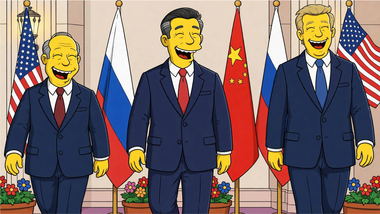
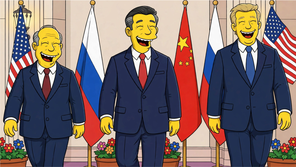
Summit equalised to 296x167; freed width shared by ICJ and market leads (328 each)

diff --git a/main.py b/main.py
@@ -7,8 +7,8 @@ summing up the world news of Thursday 19 November 2026: 36 stories
 a world map with numbered pins, a calendar page in the masthead, a
 four-number stat strip, a DATE CHECK box and a source footer. No network, no Pillow, deterministic output.
 
-The three lead illustrations (summit.png, 380x214; icj.png, 296x167;
-market.png, 276x155) are reference images Bos chose, held in the repo
+The three lead illustrations (summit.png, 296x167; icj.png, 328x185;
+market.png, 328x185) are reference images Bos chose, held in the repo
 and decoded at run time; every other picture and the map are drawn in
 code. All three lead illustrations are 16:9.
 
@@ -649,7 +649,7 @@ _ICJ_PHOTO = [None]
 
 def art_icj(cv, x, y, w, h):
     """The World Court lead portrait Bos chose: a Rohingya crowd, held
-    in the repo as icj.png (296x167) and decoded at run time."""
+    in the repo as icj.png (328x185) and decoded at run time."""
     if _ICJ_PHOTO[0] is None:
         here = os.path.dirname(os.path.abspath(__file__))
         _ICJ_PHOTO[0] = read_png_rgb(os.path.join(here, "icj.png"))
@@ -745,7 +745,7 @@ _SUMMIT_PHOTO = [None]
 def art_summit(cv, x, y, w, h):
     """The summit portrait Bos chose: the Simpsons-style cartoon of
     Putin, Xi and Trump laughing before their flags, held in the repo
-    as summit.png (380x214) and decoded at run time; the name band
+    as summit.png (296x167) and decoded at run time; the name band
     below is drawn in code, in the portrait's own left-to-right order
     (Putin, Xi, Trump)."""
     if _SUMMIT_PHOTO[0] is None:
@@ -770,7 +770,7 @@ _MARKET_PHOTO = [None]
 def art_market(cv, x, y, w, h):
     """The Wall Street lead chart Bos chose: red candles stepping down
     with the navy trend line falling away, held in the repo as
-    market.png (276x155) and decoded at run time."""
+    market.png (328x185) and decoded at run time."""
     if _MARKET_PHOTO[0] is None:
         here = os.path.dirname(os.path.abspath(__file__))
         _MARKET_PHOTO[0] = read_png_rgb(os.path.join(here, "market.png"))
@@ -1001,9 +1001,9 @@ STATS = [
 LEADS = [
     {"art": art_summit, "tag": "SHENZHEN · DIPLOMACY",
      "title": "TRUMP, XI AND PUTIN END HISTORIC SUMMIT",
-     "deck": "First-ever three-way talks run 90 minutes in Shenzhen; the "
+     "deck": "First three-way talks run 90 minutes in Shenzhen; the "
              "leaders denounce nuclear war and APEC adopts the Shenzhen "
-             "Outlook on trade, data and AI.",
+             "Outlook.",
      "src": "WSJ · USA Today · APEC — 19 Nov 2026"},
     {"art": art_icj, "tag": "THE HAGUE · INTERNATIONAL LAW",
      "title": "WORLD COURT: MYANMAR GUILTY OF GENOCIDE",
@@ -1131,9 +1131,10 @@ def render():
         cv.draw_text(bx + 12, 146, big, bold, 22, col)
         cv.draw_text(bx + 12, 164, label, reg, 10, INK)
 
-    # ---- three leads: summit first and widest, all art 16:9 ----
-    LEAD_WIDTHS = [380, 296, 276]
-    LEAD_HEIGHTS = [230, 167, 155]  # summit 380x214 + 16 name band
+    # ---- three leads: summit 296x167, the freed width shared by the
+    # other two, all art 16:9 ----
+    LEAD_WIDTHS = [296, 328, 328]
+    LEAD_HEIGHTS = [183, 185, 185]  # summit 296x167 + 16 name band
     lx = 26
     for i, lead in enumerate(LEADS):
         lw = LEAD_WIDTHS[i]
